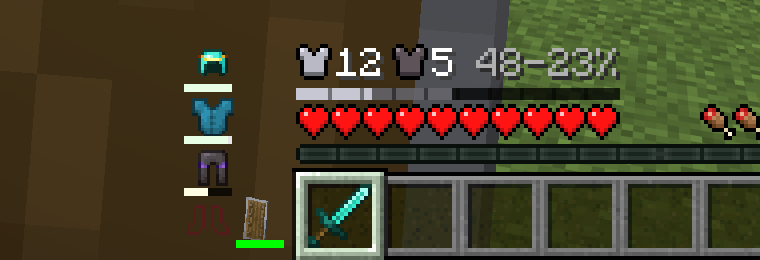
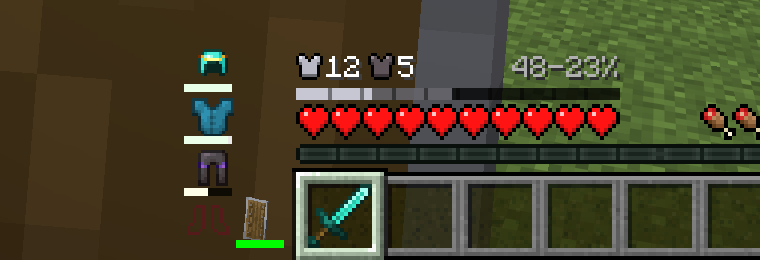
smaller armor row numbers; stack hugs hotbar, empty offhand shows shield outline

diff --git a/src/client/java/justfatlard/armor_hud/ArmorElement.java b/src/client/java/justfatlard/armor_hud/ArmorElement.java
@@ -23,9 +23,9 @@ import net.minecraft.world.item.ItemStack;
  * shaking when it takes a hit, and a shield in the offhand beside the boots in the same style.
  *
  * <p>Sits in vanilla's armor slot so both are drawn exactly when vanilla's row would be - not in
- * creative, not with the HUD hidden. Without a shield, the stack's anchor leaves room for the
- * offhand slot whether or not anything is in it, so nothing jumps when the offhand fills; a shield
- * takes that slot's place, and the stack closes up to the hotbar.
+ * creative, not with the HUD hidden. The stack always hugs whatever is beside it: the hotbar, or
+ * vanilla's offhand slot while that holds something other than a shield. An empty offhand gets the
+ * shield's outline, so the column is there either way.
  */
 public final class ArmorElement implements HudElement {
 	private static final Identifier ARMOR_ICON = Identifier.withDefaultNamespace("hud/armor_full");
@@ -58,8 +58,8 @@ public final class ArmorElement implements HudElement {
 	private static final int ROW_WIDTH = 81;
 	private static final int HEART_PITCH = 8;
 	private static final int SHIELD_HEIGHT = 3;
-	/** The numbers sit this far above vanilla's row, to make room for the shield bar under them. */
-	private static final int NUMBERS_LIFT = 4;
+	/** The numbers over the bar, smaller than the hotbar's text so the row stays short. */
+	private static final float NUMBERS_SCALE = 0.75F;
 	private static final int SHIELD = 0xFFC6C7D2;
 	private static final int SHIELD_LIGHT_HITS = 0x70C6C7D2;
 	private static final int HEART_NOTCH = 0x70000000;
@@ -103,7 +103,10 @@ public final class ArmorElement implements HudElement {
 			&& ArmorWatch.sinceBreak(ArmorWatch.OFFHAND, partialTick) < ArmorWatch.BREAK_TICKS);
 
 		if (config.showProtection) protectionRow(graphics, mc.font, player);
-		if (show || shield) stack(graphics, config, player, pieces, shield, partialTick);
+		// An empty offhand still gets the column, as the shield's outline; anything else in it keeps vanilla's slot.
+		boolean shieldColumn = shield
+			|| (showsShield(mc, config) && config.showEmptySlots && player.getOffhandItem().isEmpty());
+		if (show || shield) stack(graphics, config, player, pieces, shieldColumn, partialTick);
 	}
 
 	/**
@@ -122,7 +125,10 @@ public final class ArmorElement implements HudElement {
 	private static void stack(GuiGraphicsExtractor graphics, ArmorConfig config, Player player, ItemStack[] pieces,
 			boolean shield, float partialTick) {
 		int right = graphics.guiWidth() / 2 - HOTBAR_HALF - GAP;
-		if (!shield && player.getMainArm().getOpposite() == HumanoidArm.LEFT) right -= OFFHAND_SLOT;
+		// Vanilla draws its offhand slot only when there is something in it for the slot to hold.
+		if (!shield && !player.getOffhandItem().isEmpty() && player.getMainArm().getOpposite() == HumanoidArm.LEFT) {
+			right -= OFFHAND_SLOT;
+		}
 		int shieldX = right - ICON;
 		int x = shield ? shieldX - ICON - 1 : shieldX;
 		int top = graphics.guiHeight() - BOTTOM_MARGIN - BAR_OFFSET - BAR_HEIGHT - (pieces.length - 1) * PITCH;
@@ -134,7 +140,7 @@ public final class ArmorElement implements HudElement {
 		// Beside the boots, where the bottom of the stack meets the hotbar's items.
 		if (shield) {
 			cell(graphics, config, player.getOffhandItem(), ArmorWatch.OFFHAND, shieldX, top + (pieces.length - 1) * PITCH,
-				false, partialTick, blinkOn);
+				true, partialTick, blinkOn);
 		}
 	}
 
@@ -218,16 +224,21 @@ public final class ArmorElement implements HudElement {
 			graphics.fill(notch, shieldTop, notch + 1, shieldTop + SHIELD_HEIGHT, HEART_NOTCH);
 		}
 
-		int y = row - NUMBERS_LIFT - 1;
-		int cursor = iconAndValue(graphics, font, ARMOR_ICON, String.valueOf(protection.armor()), x, y);
+		// Drawn scaled from the bottom left, two pixels clear of the bar.
+		graphics.pose().pushMatrix();
+		graphics.pose().translate(x, shieldTop - 2);
+		graphics.pose().scale(NUMBERS_SCALE, NUMBERS_SCALE);
+		int y = -9;
+		int cursor = iconAndValue(graphics, font, ARMOR_ICON, String.valueOf(protection.armor()), 0, y);
 		cursor = iconAndValue(graphics, font, TOUGHNESS_ICON, wholeOrTenths(protection.toughness()), cursor + 2, y);
 
 		int lightShare = Math.round(light * 100F);
 		int heavyShare = Math.round(heavy * 100F);
 		String share = lightShare == heavyShare ? lightShare + "%" : lightShare + "-" + heavyShare + "%";
 		// Against the row's right edge, unless big numbers ahead of it push it out into the gap before the food.
-		int shareX = Math.max(x + ROW_WIDTH - font.width(share), cursor + 3);
+		int shareX = Math.max(Math.round(ROW_WIDTH / NUMBERS_SCALE) - font.width(share), cursor + 3);
 		graphics.text(font, share, shareX, y + 1, SHARE_COLOR, true);
+		graphics.pose().popMatrix();
 	}
 
 	/** The icon, then its value; returns where the value ends. */

diff --git a/src/gametest/java/justfatlard/armor_hud/gametest/Showcase.java b/src/gametest/java/justfatlard/armor_hud/gametest/Showcase.java
@@ -60,6 +60,10 @@ public final class Showcase implements FabricClientGameTest {
 			server.runCommand("item replace entity @a weapon.offhand with minecraft:torch");
 			context.waitTicks(5);
 			shoot(context, "offhand-torch");
+			// An empty offhand gets the shield's outline, and the stack stays against the hotbar.
+			server.runCommand("item replace entity @a weapon.offhand with minecraft:air");
+			context.waitTicks(5);
+			shoot(context, "offhand-empty");
 			server.runCommand("item replace entity @a weapon.offhand with minecraft:shield");
 
 			server.runCommand("item replace entity @a armor.head with minecraft:air");

diff --git a/README.md b/README.md
@@ -18,7 +18,7 @@ When a piece takes a hit, its icon shakes and its bar flashes white. When one br
 
 An empty slot shows the inventory's faint outline for it, so a missing helmet looks missing. An elytra gets a bar like any chestplate, even though it gives no armor, because its durability is the one you most need to watch.
 
-A shield in your offhand joins them, beside your boots, with its own durability bar: it wears in a fight like armor does, so it is watched like armor. Vanilla's offhand slot goes away while it does, and the stack closes up against the hotbar. Anything else in your offhand keeps vanilla's slot, and the stack leaves room for it.
+A shield in your offhand joins them, beside your boots, with its own durability bar: it wears in a fight like armor does, so it is watched like armor. Vanilla's offhand slot goes away while it does, and the stack closes up against the hotbar. An empty offhand shows the shield's outline there instead, so the stack never leaves a gap. Anything else in your offhand keeps vanilla's slot, and the stack sits beside it.
 
 ## Above the hearts
 

diff --git a/DEVELOPMENT.md b/DEVELOPMENT.md
@@ -62,7 +62,8 @@ from both places. The hotbar draws in creative and the health pass does not; the
 
 `Showcase` is the gametest: it dresses the player in a mixed set with a shield in the offhand,
 hits that set hard enough to break the boots and shoots it mid-animation, swaps the shield for a
-torch to show vanilla's slot coming back, then an elytra with no helmet, then full netherite with
+torch to show vanilla's slot coming back, empties the offhand to show the shield's outline
+holding the column, then an elytra with no helmet, then full netherite with
 Protection IV. A shield breaking is not shot: it only breaks blocking, and the harness cannot hold
 the use key. The row's numbers are worth checking by hand against the formula: 56-31%,
 48-23% once the boots are gone, 16-3% and 93-87%.
